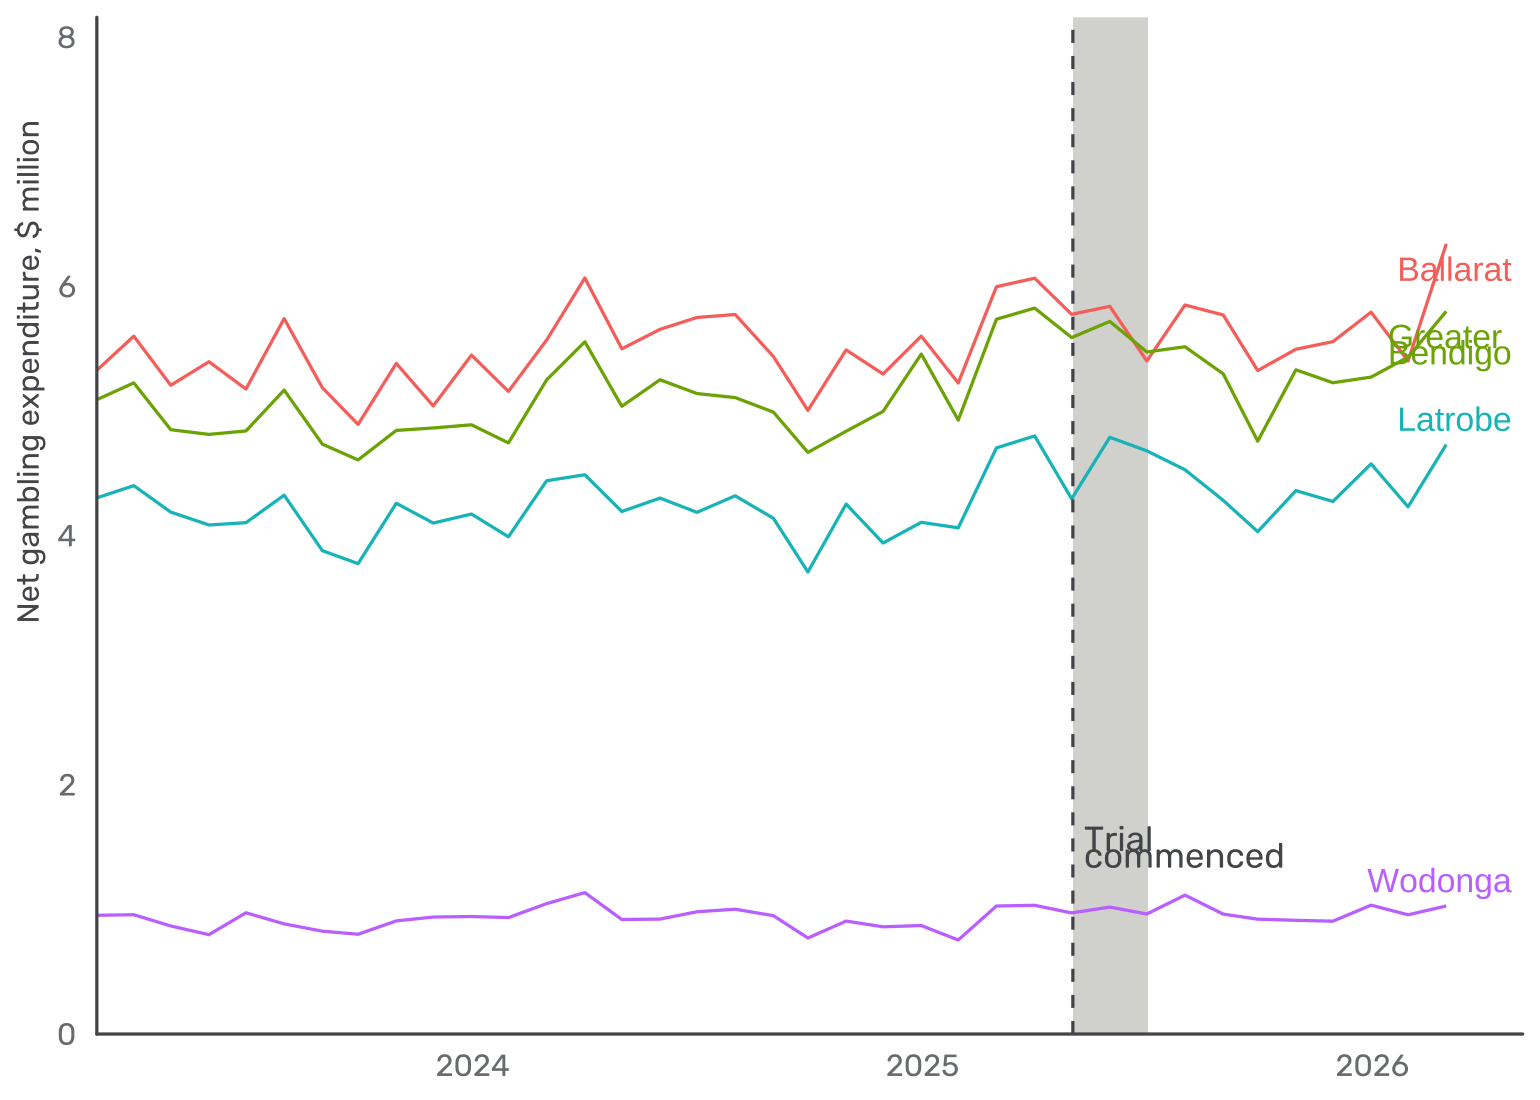
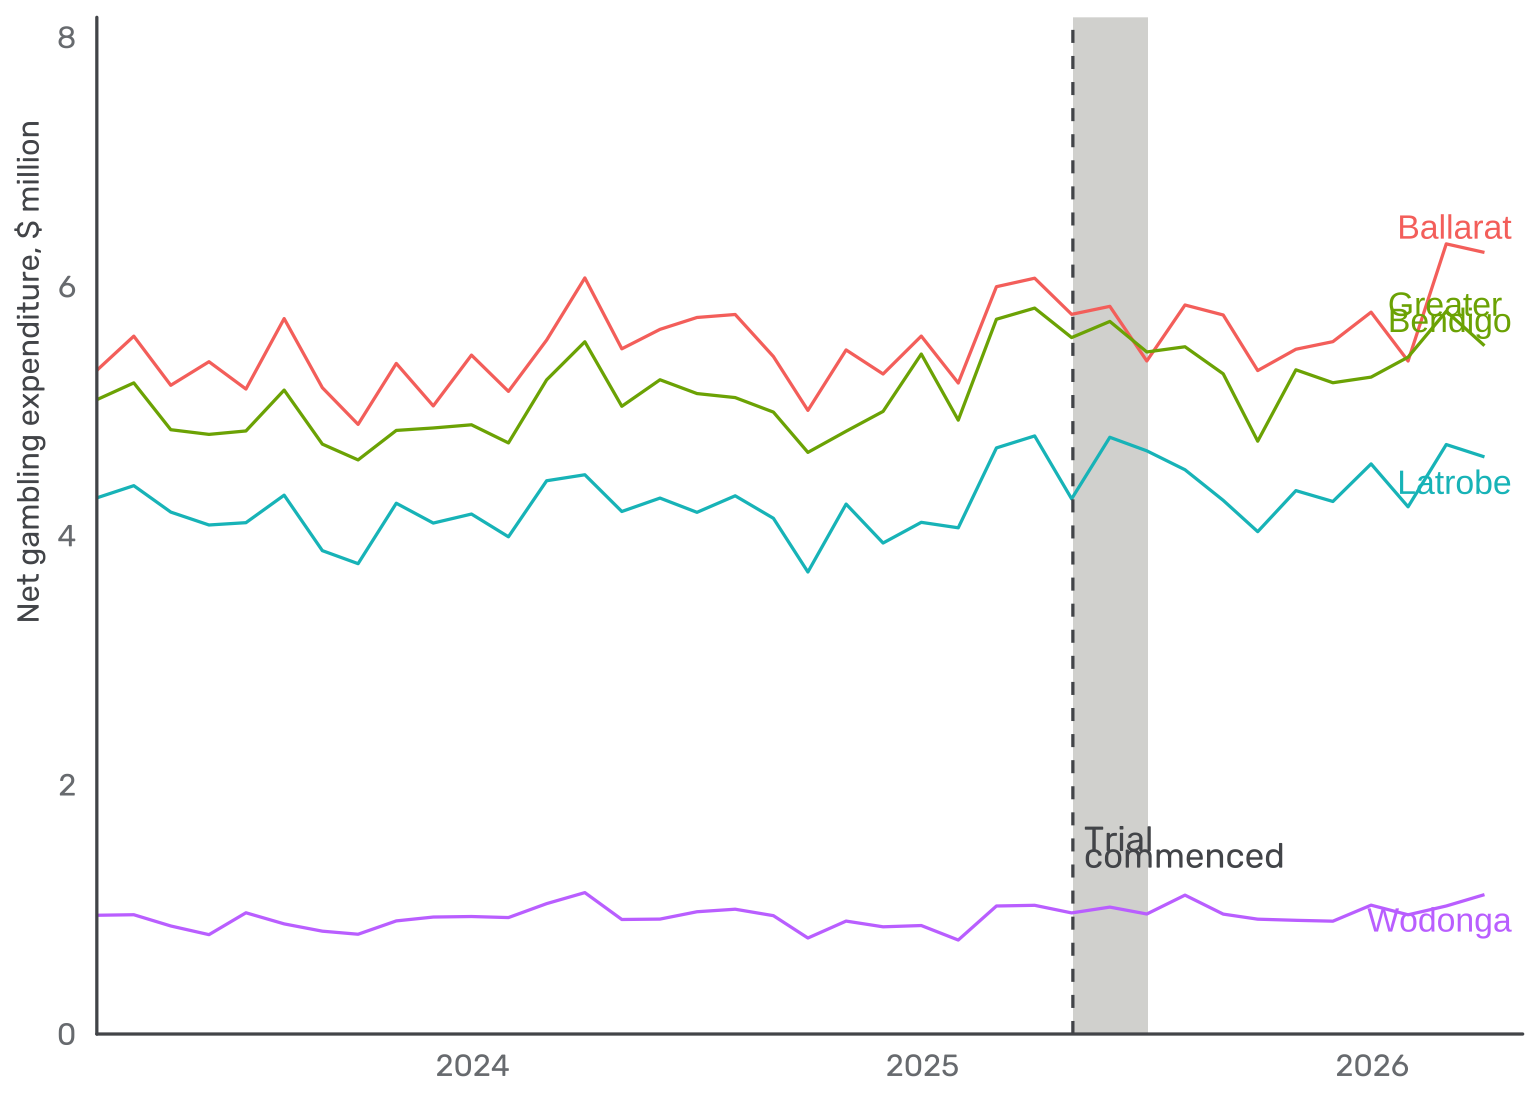
Update for August 2026 data

Changed region(s): [[0.9039, 0.1855, 0.9974, 0.34], [0.8727, 0.7727, 0.9974, 0.8655], [0.9039, 0.3709, 0.9974, 0.4636]]

diff --git a/README.md b/README.md
@@ -95,7 +95,7 @@ with:
 lga_data = vcglR::egm_lga_data
 
 dplyr::glimpse(lga_data)
-#> Rows: 8,904
+#> Rows: 9,075
 #> Columns: 5
 #> $ lga_name       <chr> "Alpine", "Alpine", "Alpine", "Alpine", "Alpine", "Alpi…
 #> $ financial_year <date> 2019-06-30, 2019-06-30, 2019-06-30, 2019-06-30, 2019-0…
@@ -119,8 +119,8 @@ Cleaning consists of:
 
 ## Last updated
 
-Last update on 08 September 2026. Annual data is up to the 2025-26
-financial year and monthly data is up to July 2026.
+Last update on 01 October 2026. Annual data is up to the 2025-26
+financial year and monthly data is up to August 2026.
 
 ## Possible analysis
 
